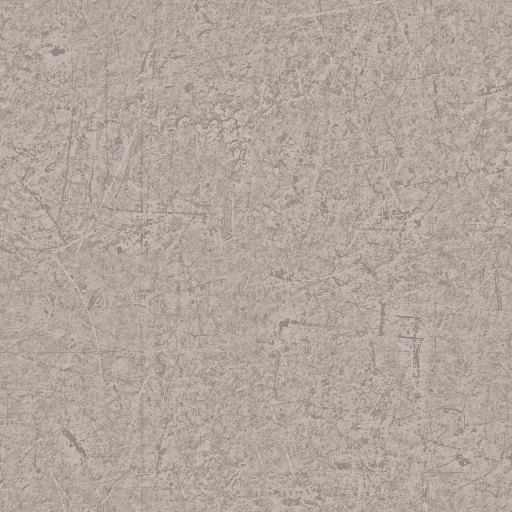
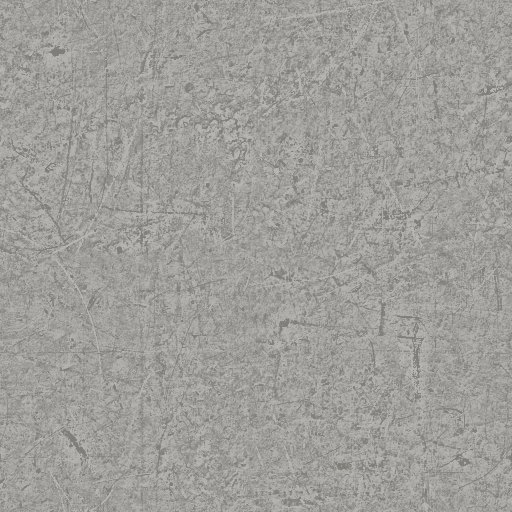
Optik an Fotos angeglichen: Schaltafeln, neutraler Beton, Wasserschlieren, dunkle Patina
Abgleich mit den Bildern im Video [14] (Märkli/VernissageTV):
- Texturen: Schaltafeln statt schmaler Bretter (waagrechte Fugen ≈ 0,57 m, senkrechte Stoßfugen), Holzmaserung nur angedeutet, neutral grau; Boden grau statt beige (weiter aus CC0-Vorlagen von Poly Haven, tools/texturen.js)
- Umgebungslicht: Boden und Berghänge neutral grau-oliv statt satt grün, der Beton wirkte grünlich
- Außenwände etwas heller; Wasserschlieren unter den Dachkanten länger und deutlicher
- Innen: Licht neutral statt warm und heller, Wände neutral
- Exponate: dunkle Patina statt orange-braunem Messing
- Texte angepasst (Datenabsatz, Legende, Quelle [16], README); Cache-Version v=16

Claude-Session: https://claude.ai/code/session_01Vqac73kuQsXBmcY5kG62vk

diff --git a/index.html b/index.html
@@ -27,17 +27,17 @@
 <link rel="preload" href="assets/fonts/heros-regular.woff" as="font" type="font/woff" crossorigin>
 <link rel="preload" href="assets/fonts/pagella-bold.woff" as="font" type="font/woff" crossorigin>
 <!-- ?v= erhöhen, wenn sich CSS oder JS ändern: sonst zeigen Browser bis zu 10 Minuten lang alte Dateien -->
-<link rel="stylesheet" href="css/tokens.css?v=15">
-<link rel="stylesheet" href="css/base.css?v=15">
-<link rel="stylesheet" href="css/layout.css?v=15">
-<link rel="stylesheet" href="css/overlays.css?v=15">
+<link rel="stylesheet" href="css/tokens.css?v=16">
+<link rel="stylesheet" href="css/base.css?v=16">
+<link rel="stylesheet" href="css/layout.css?v=16">
+<link rel="stylesheet" href="css/overlays.css?v=16">
 <script type="application/ld+json">
 {"@context":"https://schema.org","@type":"WebPage","name":"La Congiunta, Giornico – interaktives 3D-Modell","inLanguage":"de",
  "about":{"@type":"Museum","name":"La Congiunta","url":"https://lacongiunta.ch/","architect":{"@type":"Person","name":"Peter Märkli"},
   "address":{"@type":"PostalAddress","addressLocality":"Giornico","addressRegion":"Tessin","addressCountry":"CH"},
   "geo":{"@type":"GeoCoordinates","latitude":46.4056231,"longitude":8.8704691}}}
 </script>
-<script src="js/loader.js?v=15" defer></script>
+<script src="js/loader.js?v=16" defer></script>
 </head>
 <body>
 <a class="skip" href="#stage">Zum 3D-Modell springen</a>
@@ -135,7 +135,7 @@
       </section>
       <section class="fsec">
       <h3>Daten und Genauigkeit</h3>
-      <p>Gelände aus den Höhenmodellen von swisstopo [7] (um das Gebäude im Raster von 3,00 m), Boden aus dem Luftbild SWISSIMAGE [7] (online lädt die Website für Dorf, Brücken und Weg feinere Kacheln mit ≈ 0,20 m pro Pixel nach, ab mittlerer Qualität auch für die Umgebung), mit Feinstruktur je nach Bodenart; Häuser im Dorf entlang des Wegs (bis 200,00 m daneben) mit echten Grundrissen, Höhen und Dachformen aus swissBUILDINGS3D 2.0 [7], Wandfarben und Bruchsteinmauern nach Street View [10], Dachfarben aus dem Luftbild; übrige Häuser, Bahn, Straßen, Autobahnbrücken, Stromleitungen und Weinberge nach OpenStreetMap [8]. Bäume stehen dort, wo das Luftbild Baumkronen zeigt; ihre Form ist generisch. Wind und Wolken sind dargestellt, nicht gemessen: Richtung talaufwärts wie der Talwind an Sommertagen (allgemeine Wetterkunde, nicht für Giornico belegt), Wolkenform erfunden. Gebäudemaße aus Grundriss und Schnitten bei Pireddu [1], pixelgenau vermessen im Maßstab der Gesamtlänge; Gesamtlänge, Breite, Drehung (≈ 21°), Lichtgaden und Höhensprünge mit dem Gebäudemodell swissBUILDINGS3D [7] abgeglichen; lichte Raumhöhen nach [1]. Betonwände und Boden mit frei lizenzierten Texturen (CC0) [16], die Brettfugen der Schalung dazugezeichnet. Innen sind die Räume nach Peter Märkli 4,60 m breit [14]; bei ≈ 5,25 m Außenbreite ergibt das Wände von ≈ 0,33 m. Dachaufbau, Licht, Sockel der Halbfiguren und Oblichter der Zellen nach Märklis Angaben und den Bildern im Video [14]. Innen gibt es kein direktes Sonnenlicht: Die Platten des Lichtgadens streuen das Licht, sodass kein Schatten fällt; die Helligkeit folgt Sonnenstand und Wolken. Sonnenstand für Giornico (46,41° N) mit der echten Achsdrehung und mit Bergschatten aus dem Höhenmodell; Uhrzeit = wahre Sonnenzeit [12]. In der Legende: durchgezogen = belegt, gestrichelt = angenommen.</p>
+      <p>Gelände aus den Höhenmodellen von swisstopo [7] (um das Gebäude im Raster von 3,00 m), Boden aus dem Luftbild SWISSIMAGE [7] (online lädt die Website für Dorf, Brücken und Weg feinere Kacheln mit ≈ 0,20 m pro Pixel nach, ab mittlerer Qualität auch für die Umgebung), mit Feinstruktur je nach Bodenart; Häuser im Dorf entlang des Wegs (bis 200,00 m daneben) mit echten Grundrissen, Höhen und Dachformen aus swissBUILDINGS3D 2.0 [7], Wandfarben und Bruchsteinmauern nach Street View [10], Dachfarben aus dem Luftbild; übrige Häuser, Bahn, Straßen, Autobahnbrücken, Stromleitungen und Weinberge nach OpenStreetMap [8]. Bäume stehen dort, wo das Luftbild Baumkronen zeigt; ihre Form ist generisch. Wind und Wolken sind dargestellt, nicht gemessen: Richtung talaufwärts wie der Talwind an Sommertagen (allgemeine Wetterkunde, nicht für Giornico belegt), Wolkenform erfunden. Gebäudemaße aus Grundriss und Schnitten bei Pireddu [1], pixelgenau vermessen im Maßstab der Gesamtlänge; Gesamtlänge, Breite, Drehung (≈ 21°), Lichtgaden und Höhensprünge mit dem Gebäudemodell swissBUILDINGS3D [7] abgeglichen; lichte Raumhöhen nach [1]. Betonwände und Boden mit frei lizenzierten Texturen (CC0) [16]; die Schalungsfugen (waagrecht ≈ 0,57 m, dazu senkrechte Stoßfugen der Schaltafeln) und die dunklen Wasserschlieren außen nach den Bildern im Video [14] dazugezeichnet. Innen sind die Räume nach Peter Märkli 4,60 m breit [14]; bei ≈ 5,25 m Außenbreite ergibt das Wände von ≈ 0,33 m. Dachaufbau, Licht, Sockel der Halbfiguren und Oblichter der Zellen nach Märklis Angaben und den Bildern im Video [14]. Innen gibt es kein direktes Sonnenlicht: Die Platten des Lichtgadens streuen das Licht, sodass kein Schatten fällt; die Helligkeit folgt Sonnenstand und Wolken. Sonnenstand für Giornico (46,41° N) mit der echten Achsdrehung und mit Bergschatten aus dem Höhenmodell; Uhrzeit = wahre Sonnenzeit [12]. In der Legende: durchgezogen = belegt, gestrichelt = angenommen.</p>
       </section>
       <section class="fsec">
       <h3>Legende</h3>
@@ -146,7 +146,7 @@
         <li><i style="background:#4d4943"></i><span><b>Lichtgaden</b> (Dachaufsatz) ≈ 1,70 m breit, ≈ 1,50 m hoch, über die ganze Länge der drei Haupträume, ≈ 0,42 m westlich der Mitte; seitlich lichtstreuende Platten (Plexiglas) im Stahlrahmen, oben geschlossen; innen schattenloses, diffuses Licht <span class="st">Maße und Lage aus den Schnitten [1] und swissBUILDINGS3D [7], Aufbau nach den Fotos [1] und dem Video [14]; Licht nach Märkli [14]</span></span></li>
         <li><i style="background:#e0a85a"></i><span><b>Flachdach aus Holz-Dreischichtplatten</b> auf Stahlträgern quer, abgedeckt mit einer beschichteten Bitumenbahn; für den Lichtgaden der Länge nach aufgeschnitten <span class="st">Aufbau nach Märkli [14]; Plexiglas bernsteinfarben und Blech nach [1]; Trägerabstand ≈ 1,20 m geschätzt [11], im Video [14] eher etwas größer</span></span></li>
         <li><i style="background:#7d8f5a"></i><span><b>Umgebung:</b> Bahn ≈ 40,00–45,00 m westlich und ≈ 16,00 m höher, Ticino ≈ 40,00 m östlich und ≈ 9,00 m tiefer, Feldweg ≈ 18,00 m westlich der Gebäudeachse, Osteria ≈ 585,00 m und San Nicolao ≈ 640,00 m entfernt (Luftlinie) <span class="st">eigene Messung in [7] und [8]</span></span></li>
-        <li><i style="background:#7a5a30"></i><span><b>Exponate von Hans Josephsohn:</b> 6 Flachreliefs, 8 Hochreliefs, 3 Halbfiguren auf Betonsockeln, die von der Wand abgerückt stehen, spätere Hochreliefs (im Video vier an der Ostwand von Raum 3), weitere Werke in den Zellen; in Gips geformt, in Messing gegossen, grob bearbeitete Oberflächen <span class="st">Anzahl nach [1], Sockel und Lage nach Märkli und dem Video [14], Material nach [13]; Formen frei nachempfunden (keine Abbilder der einzelnen Werke), Lage angenähert, je Zelle ein Relief angenommen</span></span></li>
+        <li><i style="background:#7a5a30"></i><span><b>Exponate von Hans Josephsohn:</b> 6 Flachreliefs, 8 Hochreliefs, 3 Halbfiguren auf Betonsockeln, die von der Wand abgerückt stehen, spätere Hochreliefs (im Video vier an der Ostwand von Raum 3), weitere Werke in den Zellen; in Gips geformt, in Messing gegossen, grob bearbeitete Oberflächen, dunkel patiniert <span class="st">Anzahl nach [1], Farbe nach den Bildern im Video [14], Sockel und Lage nach Märkli und dem Video [14], Material nach [13]; Formen frei nachempfunden (keine Abbilder der einzelnen Werke), Lage angenähert, je Zelle ein Relief angenommen</span></span></li>
         <li><i style="background:#a29f96"></i><span><b>Keller (Lager)</b> unter Raum 3 und dem Zellentrakt, Boden ≈ 2,44 m unter dem Erdgeschoss, lichte Höhe ≈ 2,21 m; Zugang nur von außen über eine Treppe im Schacht an der Westwand nördlich der Zellen: ≈ 1,62 m breite Öffnung ins Lager unter Raum 3, schmale Tür in den Zellenkeller; im Rundgang begehbar, mit „Maße“ gestrichelt eingezeichnet <span class="st">Text („deposito interrato“), Kellergrundriss und Schnitte [1]</span></span></li>
         <li><i style="background:transparent;border-style:dashed"></i><span><b>Angenommen bzw. nicht modelliert:</b> Größe der Oblichter in den Zellen (laut Märkli klein, mit senkrechtem Lichteinfall [14]; ≈ 1,00 × 0,60 m nach dem Videobild geschätzt, Lage aus dem Schnitt), Ausstattung und Licht im Keller (leer, Leuchtstoffröhren angenommen), Schwellen, Weinreben nördlich des Eingangs nur schematisch, Dorfhäuser mit typisierten Fassaden</span></li>
       </ul>
@@ -804,7 +804,7 @@
       <li>Galerie Max Hetzler: <a href="https://www.maxhetzler.com/artists/hans-josephsohn" target="_blank" rel="noopener">„Hans Josephsohn“</a> (Künstlerseite: Werke in Gips geformt und in Messing gegossen, Oberflächen nur grob bearbeitet; Halbfiguren ab den 1980er Jahren; La Congiunta als „Haus für Reliefs und Halbfiguren“). Abgerufen am 3.11.2026.</li>
       <li>VernissageTV: <a href="https://www.youtube.com/watch?v=DVuXOg9W8ZM" target="_blank" rel="noopener">„Museo La Congiunta, Giornico by Peter Märkli Architect“</a>, Interview mit Peter Märkli, Zürich, 28.12.2011, zum Ehrenpreis des Velux Stiftung Tageslicht-Award 2012 (Video, 4:42; Innenbreite, Dachaufbau, Lichtgaden, Sockel der Halbfiguren, Zellen; Bilder des Innen- und Außenraums). Abgerufen am 10.11.2026.</li>
       <li>Normen für die Grundrisse: DIN 1356-1:1995-02 „Bauzeichnungen“ (Darstellung, Linienarten), DIN 406-11 (Maßeintragung), DIN EN ISO 5457 (Blattformat), DIN EN ISO 7200 (Schriftfeld), DIN EN ISO 3098 (Schrift), DIN 277 (Flächen). Die Normtexte lagen nicht vor; Linienarten, Linienbreiten und Maßeintragung nach dem Lehrskript <a href="https://epub.sub.uni-hamburg.de/epub/volltexte/2010/4886/pdf/Bauzeichnen_I.pdf" target="_blank" rel="noopener">„Bauzeichnen I“</a> (Universität Hamburg). Abgerufen am 10.11.2026.</li>
-      <li>Poly Haven: Texturen <a href="https://polyhaven.com/a/concrete_wall_006" target="_blank" rel="noopener">„Concrete Wall 006“</a> (Dario Barresi, Charlotte Baglioni), <a href="https://polyhaven.com/a/wood_textured_concrete" target="_blank" rel="noopener">„Wood Textured Concrete“</a> (Dimitrios Savva) und <a href="https://polyhaven.com/a/concrete_floor_worn_001" target="_blank" rel="noopener">„Concrete Floor Worn 001“</a> (Dimitrios Savva, Rico Cilliers), Lizenz CC0, gemeinfrei (<a href="https://polyhaven.com/license" target="_blank" rel="noopener">polyhaven.com/license</a>). Daraus die Texturen für Betonwände, Innenwände und Boden: Holzmaserung schwach, Brettfugen gezeichnet, Helligkeit angeglichen (tools/texturen.js). Abgerufen am 11.11.2026.</li>
+      <li>Poly Haven: Texturen <a href="https://polyhaven.com/a/concrete_wall_006" target="_blank" rel="noopener">„Concrete Wall 006“</a> (Dario Barresi, Charlotte Baglioni), <a href="https://polyhaven.com/a/wood_textured_concrete" target="_blank" rel="noopener">„Wood Textured Concrete“</a> (Dimitrios Savva) und <a href="https://polyhaven.com/a/concrete_floor_worn_001" target="_blank" rel="noopener">„Concrete Floor Worn 001“</a> (Dimitrios Savva, Rico Cilliers), Lizenz CC0, gemeinfrei (<a href="https://polyhaven.com/license" target="_blank" rel="noopener">polyhaven.com/license</a>). Daraus die Texturen für Betonwände, Innenwände und Boden: Holzmaserung nur angedeutet, Schalungsfugen gezeichnet, Helligkeit angeglichen (tools/texturen.js). Abgerufen am 11.11.2026.</li>
     </ol>
   </details>
 </footer>

diff --git a/tools/texturen.js b/tools/texturen.js
@@ -3,7 +3,8 @@
      concrete_wall_006 (Dario Barresi, Charlotte Baglioni)  – glatter Sichtbeton als Grund
      wood_textured_concrete (Dimitrios Savva)              – Holzmaserung der Schalung, nur schwach, 90° gedreht (Bretter waagrecht)
      concrete_floor_worn_001 (Dimitrios Savva, Rico Cilliers) – Betonboden
-   Dazu gezeichnet: Brettfugen (dunkle Kante, heller Grat, leicht wellig) und Bretter mit leicht verschiedener Helligkeit.
+   Dazu gezeichnet: Schalungsfugen wie an La Congiunta (Bilder im Video [14]): waagrechte Fugen etwa alle 0,57 m, je Kachel eine
+   senkrechte Stoßfuge der Schaltafeln, Tafeln mit leicht verschiedener Helligkeit; Holzmaserung nur angedeutet.
    Helligkeit und Farbton sind an die bisherigen Texturen angeglichen, damit das Licht im Modell gleich bleibt.
    Aufruf in einer Seite ohne strenge CSP, z. B. auf der eigenen Website: await laTexturen() liefert {A, B, I, F} als JPEG-Blobs
    (A, B = assets/img/tex-concrete-a/-b.jpg, I = tex-interior-wall.jpg, F = tex-floor.jpg). */
@@ -33,8 +34,8 @@ async function laTexturen() {
   }
   function rnd(s) { return function () { s |= 0; s = s + 0x6D2B79F5 | 0; var t = Math.imul(s ^ s >>> 15, 1 | s); t = t + Math.imul(t ^ t >>> 7, 61 | t) ^ t; return ((t ^ t >>> 14) >>> 0) / 4294967296; }; }
   var woodSoft = (function () { var r = rot(IMG.wood, 90), c = cv(512, 512), x = c.getContext('2d'); x.filter = 'blur(1.2px)'; x.drawImage(r, 0, 0, 512, 512); return c; })();
-  /* Schalungsbeton: ny Kacheln senkrecht, je „boards“ Bretter; grain = Anteil der Maserung, jA = Stärke der Fugen */
-  function board(w, h, ny, boards, ox, oy, grain, seed, jA) {
+  /* Schalungsbeton: ny Kacheln senkrecht, je „boards“ Tafelreihen; grain = Anteil der Maserung, jA = Stärke der Fugen, vx = Lage der Stoßfuge (Anteil der Breite) */
+  function board(w, h, ny, boards, ox, oy, grain, seed, jA, vx) {
     var c = cv(w, h), x = c.getContext('2d'), r = rnd(seed); x.imageSmoothingQuality = 'high';
     tileInto(x, IMG.wall, w, h, 1, ny, ox, oy);
     x.globalCompositeOperation = 'overlay'; x.globalAlpha = grain; tileInto(x, woodSoft, w, h, 1, ny, ox * 0.7, oy * 0.3);
@@ -50,14 +51,17 @@ async function laTexturen() {
       for (u = 0; u <= w; u += 4) { y = y0 + lw * 1.3 + a1 * Math.sin(u / w * 6.283 * 2 + ph); if (u) x.lineTo(u, y); else x.moveTo(u, y); }
       x.stroke();
     }
+    /* senkrechte Stoßfuge, über die ganze Höhe der Kachel */
+    x.globalAlpha = jA * 0.8; x.strokeStyle = '#000'; x.lineWidth = lw * 0.9; x.beginPath(); x.moveTo(vx * w, 0); x.lineTo(vx * w, h); x.stroke();
+    x.globalAlpha = jA * 0.3; x.strokeStyle = '#fff'; x.beginPath(); x.moveTo(vx * w + lw * 1.2, 0); x.lineTo(vx * w + lw * 1.2, h); x.stroke();
     x.globalAlpha = 1; return c;
   }
   function floorTex() { var c = cv(512, 512), x = c.getContext('2d'); x.imageSmoothingQuality = 'high'; tileInto(x, IMG.floor, 512, 512, 1, 1, 0, 0); return c; }
   var out = {
-    A: match(board(512, 512, 1, 5, 0, 0, 0.12, 11, 0.6), [[126.2, 124.6, 120.5], [17.7, 17.5, 17.7]], 1.8, 2.6),
-    B: match(board(512, 512, 1, 5, 0.5, 0.31, 0.12, 23, 0.6), [[124.6, 121.2, 113.8], [15.2, 15.3, 15.1]], 1.8, 2.6),
-    I: match(board(256, 448, 2, 4, 0.25, 0, 0.1, 37, 0.5), [[166, 165, 158], [8, 8.5, 9.5]], 1.6, 2.4),
-    F: match(floorTex(), [[176.8, 166.8, 158.3], [13.9, 13.8, 14.8]], 1.5, 2.2)
+    A: match(board(512, 512, 1, 4, 0, 0, 0.05, 11, 0.62, 0.62), [[127, 126.5, 123.5], [15.5, 15.5, 15.5]], 1.8, 2.6),
+    B: match(board(512, 512, 1, 4, 0.5, 0.31, 0.05, 23, 0.62, 0.27), [[124.5, 123.5, 119.5], [14, 14, 14]], 1.8, 2.6),
+    I: match(board(256, 448, 2, 3, 0.25, 0, 0.04, 37, 0.5, 0.45), [[178, 178, 175], [8, 8, 8.5]], 1.6, 2.4),
+    F: match(floorTex(), [[160, 158.5, 154.5], [15, 15, 15.5]], 1.5, 2.2)
   };
   var res = {};
   for (var key in out) res[key] = await new Promise(function (r) { out[key].toBlob(r, 'image/jpeg', 0.86); });

diff --git a/js/building.js b/js/building.js
@@ -22,8 +22,8 @@ var SKX0=(CX0+T0-W/2)/2-0.5,SKX1=SKX0+1.0,SKZ=0.3,CEIL_C=CHH-0.2,SKH=0.3;
 ROOMS={cx1:-W/2,cz0:CZ0+T0/2,cp:CP,sx0:SKX0,sx1:SKX1,sz:SKZ,ch:CEIL_C,xa:Math.max(LOFF-LW/2,-Wi/2),xb:LOFF+LW/2,r:[]};
 for(var ri0=0;ri0<3;ri0++){ROOMS.r.push({y:H[ri0],za:zA(ri0),zb:zB(ri0),zEnd:zS[ri0]+L[ri0]})}
 WEATHER_CODE='{float ht_=(vWP.x<'+(-W/2).toFixed(3)+')?'+CHH.toFixed(2)+':((vWP.z<'+f6(zS[1])+')?5.3:((vWP.z<'+f6(zS[2])+')?3.5:6.6));float dt_=max(ht_-vWP.y,0.0);'+
-  'float u_=(vWP.x+vWP.z)*4.0;float c_=floor(u_);float r_=fract(sin(c_*12.9898)*43758.5453);float r2_=fract(sin((c_+1.0)*12.9898)*43758.5453);'+
-  'float sr_=mix(r_,r2_,smoothstep(0.0,1.0,fract(u_)));float st_=smoothstep(0.5,0.95,sr_)*exp(-dt_*(0.3+0.6*r_))*0.30;'+
+  'float u_=(vWP.x+vWP.z)*2.6;float c_=floor(u_);float r_=fract(sin(c_*12.9898)*43758.5453);float r2_=fract(sin((c_+1.0)*12.9898)*43758.5453);'+
+  'float sr_=mix(r_,r2_,smoothstep(0.0,1.0,fract(u_)));float st_=smoothstep(0.68,0.97,sr_)*exp(-dt_*(0.06+0.2*r_))*0.58+exp(-dt_*1.6)*0.10;'+
   'float bs_=(1.0-smoothstep(0.0,0.5,vWP.y))*0.2;diffuseColor.rgb*=1.0-st_-bs_;diffuseColor.rgb*=mix(vec3(1.0),vec3(0.93,0.98,0.88),bs_*2.0);}\n';
 var LANS=[],concs=[],clearMats=[],shells=[],lans=[],tags=[],SO=[],TREEC=[],plexis=[];
 /* alle Gebäudeteile liegen in einer Gruppe und werden am Ende pro Material zu wenigen Netzen zusammengeführt */
@@ -64,13 +64,13 @@ function buildBuilding(T){
   var tA=tx(T.TA),tB=tx(T.TB),tI=tx(T.TI),tF=tx(T.TF);
   var nA=T.TA?normalFrom(T.TA,7,10):null,nB=T.TB?normalFrom(T.TB,7,10):null,nI=T.TI?normalFrom(T.TI,6,8):null,nF=T.TF?normalFrom(T.TF,3,12):null;
   function std(p,o){var m=new THREE.MeshStandardMaterial(p);return patch(m,o||{})}
-  var conc=std({color:new THREE.Color(1.32,1.31,1.28),map:tA,normalMap:nA,normalScale:new THREE.Vector2(0.7,0.7),roughness:0.93,envMapIntensity:1.15},{weather:1,notileu:1});
-  var concB=std({color:new THREE.Color(1.32,1.31,1.28),map:tB,normalMap:nB,normalScale:new THREE.Vector2(0.7,0.7),roughness:0.93,envMapIntensity:1.15},{weather:1,notileu:1});
+  var conc=std({color:new THREE.Color(1.52,1.51,1.49),map:tA,normalMap:nA,normalScale:new THREE.Vector2(0.7,0.7),roughness:0.93,envMapIntensity:1.15},{weather:1,notileu:1});
+  var concB=std({color:new THREE.Color(1.52,1.51,1.49),map:tB,normalMap:nB,normalScale:new THREE.Vector2(0.7,0.7),roughness:0.93,envMapIntensity:1.15},{weather:1,notileu:1});
   var concTop=std({color:0x9c9a94,map:tA,roughness:0.97,envMapIntensity:0.8},{});
   concs.push(conc,concB);
   var I={interior:1};
-  var intM=std({color:0xf2f0ea,map:tI,normalMap:nI,normalScale:new THREE.Vector2(0.6,0.6),roughness:0.92,envMapIntensity:0.03},{interior:1,notileu:1});
-  var floorM=std({color:0xe4e2dc,map:tF,normalMap:nF,normalScale:new THREE.Vector2(0.3,0.3),roughness:0.62,envMapIntensity:0.05},{interior:1,notile:1});
+  var intM=std({color:0xf0f0ee,map:tI,normalMap:nI,normalScale:new THREE.Vector2(0.6,0.6),roughness:0.92,envMapIntensity:0.03},{interior:1,notileu:1});
+  var floorM=std({color:0xe2e2e0,map:tF,normalMap:nF,normalScale:new THREE.Vector2(0.3,0.3),roughness:0.62,envMapIntensity:0.05},{interior:1,notile:1});
   /* Decke: Unterseite der Holz-Dreischichtplatten, im Video [14] grau; Stahlträger heller grau */
   var ceilM=std({color:0x56595b,roughness:0.85,envMapIntensity:0.02},I);
   var steelI=std({color:0x9a9ea1,roughness:0.55,metalness:0.3,envMapIntensity:0.08},I);

diff --git a/js/controls.js b/js/controls.js
@@ -195,12 +195,14 @@ function afterSun(){
   var k=sv*sstep(-0.01,0.08,s);
   var sk=0.10+1.25*dl;U.uSkyL.value.setRGB(1.0,0.86,0.66).multiplyScalar(sk*0.85+1.6*Math.max(0,s)*k);
   /* innen nur gestreutes Licht: der Sonnenanteil kommt diffus durch die Platten (kein Sonnenfleck), Wolken dämpfen ihn */
-  INTL.b=sk*0.85;INTL.s=INT_SUN*Math.max(0,s)*k;intLUpd();
+  INTL.b=sk*1.4;INTL.s=INT_SUN*Math.max(0,s)*k;intLUpd();
   var fc=new THREE.Color().setRGB(0.46,0.54,0.64).lerp(new THREE.Color(0.80,0.58,0.42),warm*0.55*dl).multiplyScalar(0.05+0.95*dl);scene.fog.color.copy(fc);
   expoBase=clamp(0.66/(0.07+0.93*dl),0.64,3.2);
   var gI=sun.intensity*Math.max(0,s)*k+0.32*dl+0.004;
-  if(groundE)groundE.material.color.setRGB(0.15,0.19,0.10).multiplyScalar(gI);
-  if(ringM)ringM.material.color.setRGB(0.09,0.12,0.08).multiplyScalar(gI*0.8+0.02*dl);
+  /* Boden und Berghänge im Umgebungslicht: neutral grau-oliv statt satt grün (sonst färben sie die Betonwände grünlich;
+     auf den Fotos ist der Beton hell und neutral grau) */
+  if(groundE)groundE.material.color.setRGB(0.12,0.12,0.10).multiplyScalar(gI);
+  if(ringM)ringM.material.color.setRGB(0.13,0.13,0.115).multiplyScalar(gI*0.8+0.02*dl);
   envQueue();
   var hidden=(s>0.0&&sv<0.5);
   /* Uhrzeit und Sonnenstand in getrennten Zeilen, damit die Anzeige beim Ziehen nicht umbricht */

diff --git a/js/exhibits.js b/js/exhibits.js
@@ -88,7 +88,7 @@ function exBlur(S,T,r,wrap){var O=new Float32Array(T*T),M=new Float32Array(T*T),
   for(i=0;i<T;i++){s=0;for(j=-r;j<=r;j++)s+=M[cy(j)*T+i];for(j=0;j<T;j++){O[j*T+i]=s/w;s+=M[cy(j+r+1)*T+i]-M[cy(j-r)*T+i]}}
   return O}
 /* Messing mit Patina: tiefe Stellen dunkel, Grate abgegriffen hell, selten olivgrün in Vertiefungen */
-var BR=[[30,22,15],[78,55,31],[132,96,52],[180,140,80]];
+var BR=[[24,22,18],[56,51,44],[92,82,67],[136,118,90]];   /* dunkle Patina wie auf den Fotos (Video [14]), Kanten heller */
 function brass(t,out,o){t=t<0?0:(t>1?1:t);var s=t*3,k=Math.min(2,s|0),f=s-k,a=BR[k],b=BR[k+1];out[o]=a[0]+(b[0]-a[0])*f;out[o+1]=a[1]+(b[1]-a[1])*f;out[o+2]=a[2]+(b[2]-a[2])*f;out[o+3]=255}
 function exTile(i){var sp=EXS[i],T=EXA.T,g=EXA.g,n=T-2*g,F=new Float32Array(T*T),M=new Float32Array(T*T),fig=sp.k==='fig',r=mb32(sp.seed),ox=r()*40,oy=r()*40,u,v,j,ii,q;
   if(fig){for(j=0;j<T;j++){v=Math.max(0,Math.min(1,1-(j-g+0.5)/n));for(ii=0;ii<T;ii++){u=(ii-g+0.5)/n;F[j*T+ii]=figBase(u,v,ox)}}

diff --git a/js/view.js b/js/view.js
@@ -57,7 +57,7 @@ function cloudB(){var c=U.uCloud.value;if(c.x<=0)return 1;var sb=U.uSunB.value,f
   return 1-c.x*0.62*sstep(c.w,c.w+0.07,cloudAt(px*CT+pz*ST,-px*ST+pz*CT))}
 /* Innenhelligkeit: Himmelsanteil plus Sonnenanteil, den die Platten des Lichtgadens streuen; ziehen Wolken vor die Sonne, wird es drinnen dunkler */
 var INTL={b:0,s:0},INT_SUN=3.0;
-function intLUpd(){U.uIntL.value.setRGB(1.0,0.92,0.80).multiplyScalar(INTL.b+INTL.s*cloudB())}
+function intLUpd(){U.uIntL.value.setRGB(1.0,0.99,0.97).multiplyScalar(INTL.b+INTL.s*cloudB())}
 windApply();
 function draw(){needs=true;lastAct=performance.now()}
 function onRendered(f){afterR.push(f);needs=true}

diff --git a/README.md b/README.md
@@ -154,7 +154,7 @@ Die vollständige Quellenliste steht in der Seite unter „Quellen“. Wichtig f
 - three.js: MIT-Lizenz.
 - Schriften TeX Gyre Heros und Pagella: GUST Font License (siehe `assets/fonts/`).
 - Pläne und Angaben nach A. Pireddu, „Peter Märkli – La Congiunta“, *Firenze Architettura* 29 (2025), doi:10.36253/FiA-16824 (CC BY-SA 4.0); im Modell nur zitiert und nachgezeichnet.
-- Texturen für Betonwände, Innenwände und Boden: aus frei lizenzierten Vorlagen von Poly Haven (CC0, gemeinfrei, keine Namensnennung nötig; „Concrete Wall 006“ von Dario Barresi und Charlotte Baglioni, „Wood Textured Concrete“ von Dimitrios Savva, „Concrete Floor Worn 001“ von Dimitrios Savva und Rico Cilliers), die Brettfugen dazugezeichnet, erzeugt mit `tools/texturen.js`. Die früheren Fototexturen aus der Vorlage-Datei, deren Herkunft unbekannt war, sind nicht mehr enthalten.
+- Texturen für Betonwände, Innenwände und Boden: aus frei lizenzierten Vorlagen von Poly Haven (CC0, gemeinfrei, keine Namensnennung nötig; „Concrete Wall 006“ von Dario Barresi und Charlotte Baglioni, „Wood Textured Concrete“ von Dimitrios Savva, „Concrete Floor Worn 001“ von Dimitrios Savva und Rico Cilliers), die Schalungsfugen nach den Bildern im Video dazugezeichnet, erzeugt mit `tools/texturen.js`. Die früheren Fototexturen aus der Vorlage-Datei, deren Herkunft unbekannt war, sind nicht mehr enthalten.
 - Die Werke von Hans Josephsohn sind urheberrechtlich geschützt. Das Modell zeigt keine Abbilder einzelner Werke, sondern frei nachempfundene, prozedural erzeugte Formen in Anzahl und Anordnung nach den Quellen.
 
 Für den eigenen Code des Modells ist keine Lizenz festgelegt; wer ihn anderen zur Nutzung freigeben möchte, ergänzt eine Lizenzdatei (zum Beispiel MIT).
